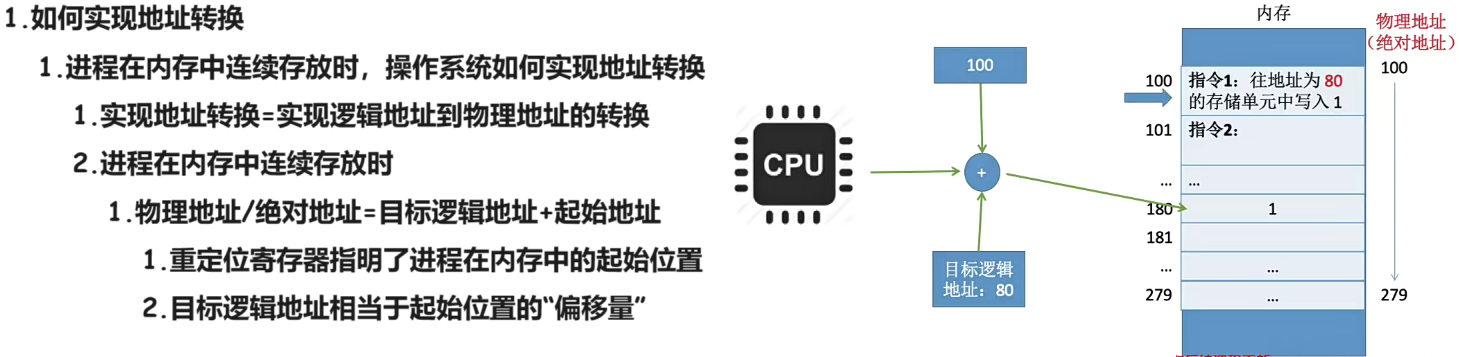
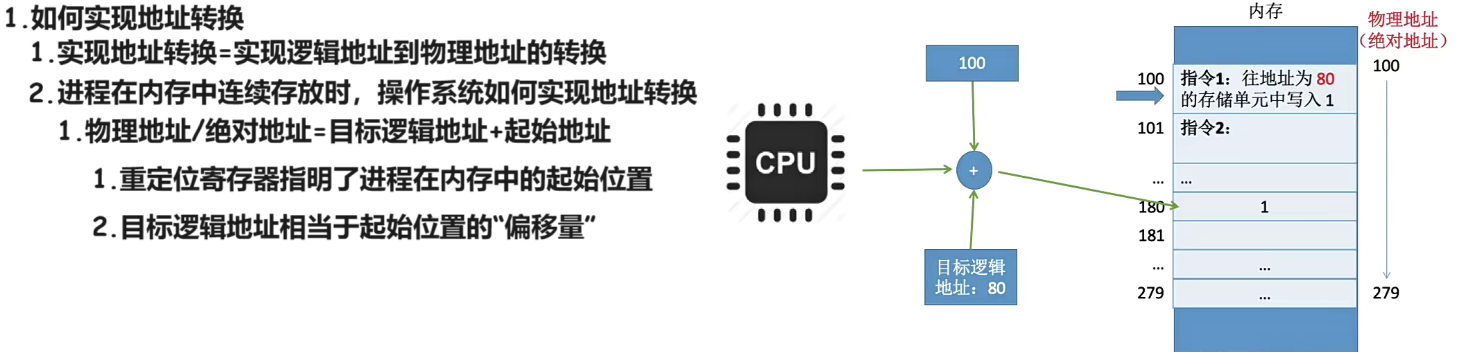
240109

diff --git a/04 每日一题/01 820/05 23/01 操作系统部分/03 计算题/03 请求分页存储管理 240109/02 知识点/01 基本分页存储管理/01 Doc.md b/04 每日一题/01 820/05 23/01 操作系统部分/03 计算题/03 请求分页存储管理 240109/02 知识点/01 基本分页存储管理/01 Doc.md
@@ -22,4 +22,4 @@
 
 ## 04 实现地址转换
 
-<img src="https://cvp.oss-cn-shanghai.aliyuncs.com/picgo/202401091539344.png" alt="image-20240109153928276" style="zoom:50%;" />
+<img src="https://cvp.oss-cn-shanghai.aliyuncs.com/picgo/202401091549078.png" alt="image-20240109154941014" style="zoom:50%;" />
